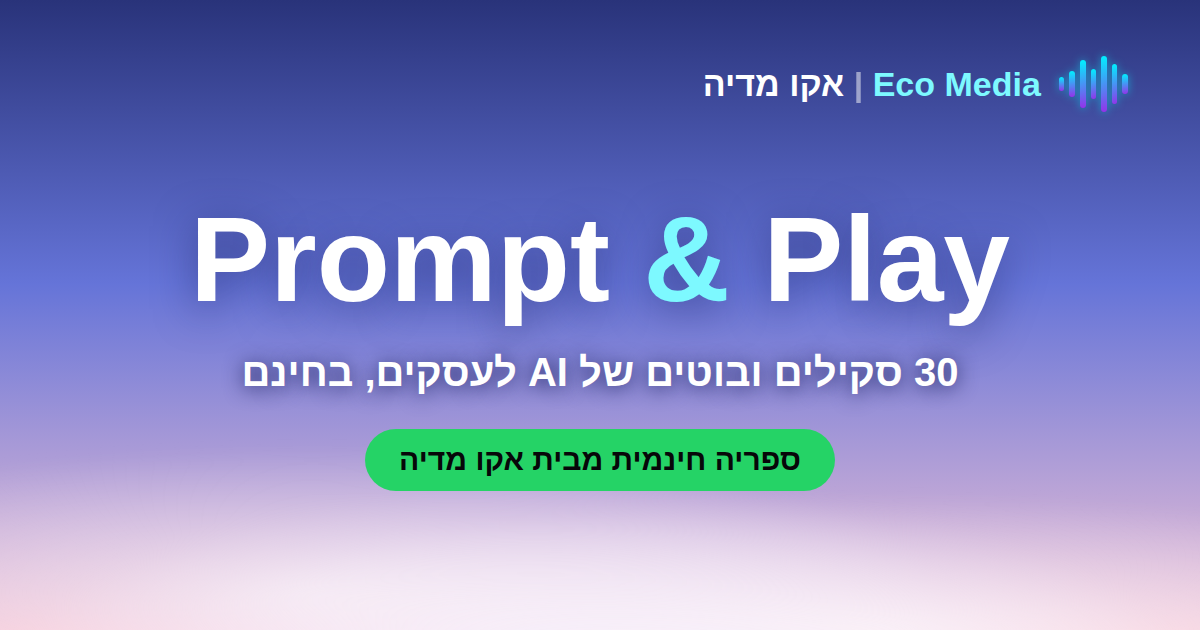
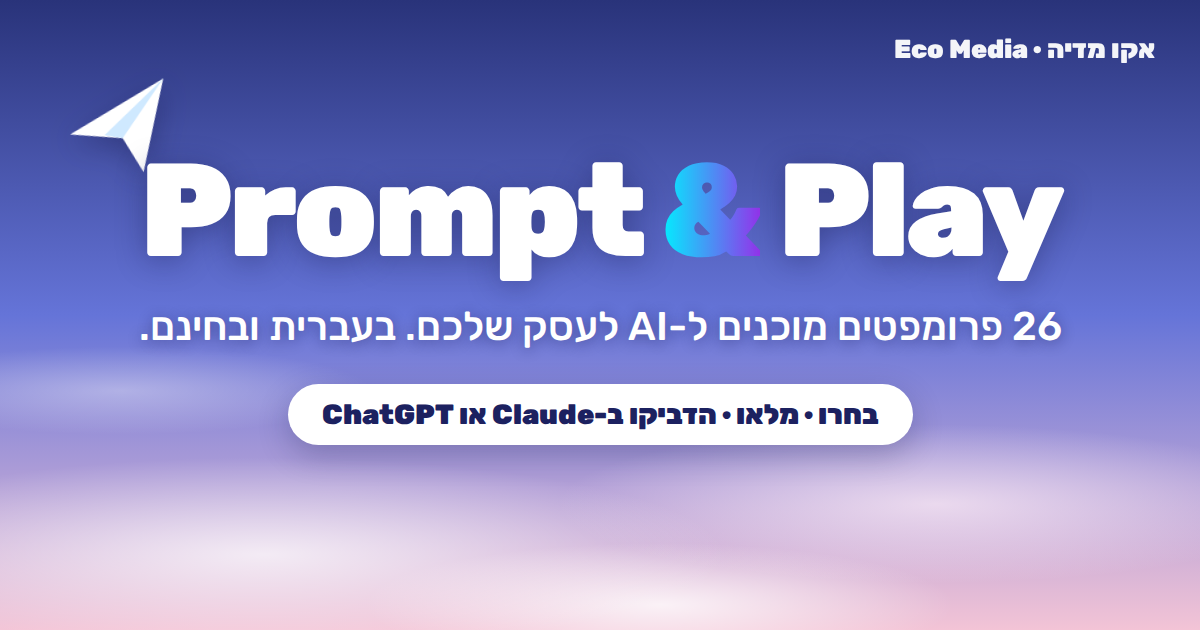
Accessibility menu and statement, new share image and Hebrew meta
- Accessibility button: stop animations (also disables 3D, intro, smooth scroll),
  larger text, high contrast, highlighted links; saved per visitor
- Accessibility statement (IS 5568 / WCAG 2.1 AA) linked from menu and footer
- New 1200x630 share preview in the current look; updated title, descriptions, canonical

Claude-Session: https://claude.ai/code/session_016XeZKWvQA9aTFNWeWmWKPo

diff --git a/src/components/Accessibility.tsx b/src/components/Accessibility.tsx
@@ -1,0 +1,127 @@
+import { AnimatePresence, motion } from 'framer-motion'
+import { Accessibility as A11yIcon, X } from 'lucide-react'
+import { useEffect, useState } from 'react'
+import { resetA11y, setA11y, useA11y, type A11yKey } from '../lib/a11y'
+import { BRAND, waLink } from '../lib/brand'
+
+const OPTIONS: { key: A11yKey; label: string }[] = [
+  { key: 'calm', label: 'עצירת אנימציות ותנועה' },
+  { key: 'big', label: 'הגדלת טקסט' },
+  { key: 'contrast', label: 'ניגודיות גבוהה' },
+  { key: 'links', label: 'הדגשת קישורים' },
+]
+
+const UPDATED = '4 באוקטובר 2026'
+
+function Statement({ onClose }: { onClose: () => void }) {
+  return (
+    <div className="space-y-3 text-sm leading-relaxed text-white/85">
+      <p>
+        Prompt & Play הוא מיזם קהילתי של {BRAND.nameHe}. אנחנו רוצים שכל אחד יוכל להשתמש באתר, כולל אנשים עם מוגבלות, ופועלים
+        להנגשתו בהתאם לתקן הישראלי 5568 (המבוסס על WCAG 2.1) ברמה AA.
+      </p>
+      <p className="font-semibold text-white">מה עשינו באתר:</p>
+      <ul className="list-disc space-y-1 ps-5">
+        <li>תפריט נגישות לעצירת אנימציות, הגדלת טקסט, ניגודיות גבוהה והדגשת קישורים.</li>
+        <li>כיבוד הגדרת "הפחתת תנועה" של מערכת ההפעלה: האנימציות והרקע התלת-ממדי כבויים אוטומטית.</li>
+        <li>ניווט מלא במקלדת, תוויות לשדות טופס ולכפתורים, וכיווניות עברית (RTL).</li>
+        <li>הסאונד כבוי כברירת מחדל ומופעל רק בלחיצה.</li>
+      </ul>
+      <p>
+        ייתכן שעדיין יש באתר רכיבים שאינם נגישים במלואם. נתקלתם בבעיה? נשמח לשמוע ולתקן:{' '}
+        <a href={waLink('היי, נתקלתי בבעיית נגישות באתר Prompt & Play:')} target="_blank" rel="noopener noreferrer" className="font-semibold text-wa underline">
+          וואטסאפ
+        </a>{' '}
+        או בטלפון{' '}
+        <a dir="ltr" href={`tel:+${BRAND.phoneIntl}`} className="font-semibold underline">
+          {BRAND.phoneDisplay}
+        </a>
+        .
+      </p>
+      <p className="text-white/60">ההצהרה עודכנה לאחרונה ב-{UPDATED}.</p>
+      <button type="button" onClick={onClose} className="mt-2 rounded-full border border-white/25 px-4 py-2 font-semibold hover:bg-white/10">
+        חזרה
+      </button>
+    </div>
+  )
+}
+
+// כפתור נגישות קבוע + חלונית הגדרות והצהרת נגישות
+export function Accessibility() {
+  const a = useA11y()
+  const [open, setOpen] = useState(false)
+  const [statement, setStatement] = useState(false)
+
+  useEffect(() => {
+    const show = () => {
+      setOpen(true)
+      setStatement(true)
+    }
+    window.addEventListener('pp:a11y-statement', show)
+    if (!open) return () => window.removeEventListener('pp:a11y-statement', show)
+    const onKey = (e: KeyboardEvent) => e.key === 'Escape' && setOpen(false)
+    document.addEventListener('keydown', onKey)
+    return () => {
+      window.removeEventListener('pp:a11y-statement', show)
+      document.removeEventListener('keydown', onKey)
+    }
+  }, [open])
+
+  return (
+    <>
+      <button
+        type="button"
+        onClick={() => {
+          setStatement(false)
+          setOpen(!open)
+        }}
+        aria-expanded={open}
+        aria-label="תפריט נגישות"
+        title="נגישות"
+        className="fixed left-5 top-1/2 z-[59] grid h-11 w-11 -translate-y-1/2 place-items-center rounded-full border border-white/25 bg-[#1c2160]/90 text-white shadow-lg backdrop-blur transition hover:bg-[#262c78]"
+      >
+        <A11yIcon className="h-5 w-5" />
+      </button>
+      <AnimatePresence>
+        {open && (
+          <motion.div
+            role="dialog"
+            aria-label={statement ? 'הצהרת נגישות' : 'הגדרות נגישות'}
+            data-lenis-prevent
+            initial={{ opacity: 0, x: -16 }}
+            animate={{ opacity: 1, x: 0 }}
+            exit={{ opacity: 0, x: -16 }}
+            className="fixed left-3 top-[10svh] z-[61] max-h-[80svh] w-[min(92vw,360px)] overflow-y-auto rounded-2xl border border-white/20 bg-[#14183f] p-5 shadow-2xl sm:left-20"
+          >
+            <div className="mb-4 flex items-center justify-between">
+              <h2 className="text-lg font-bold">{statement ? 'הצהרת נגישות' : 'נגישות'}</h2>
+              <button type="button" onClick={() => setOpen(false)} aria-label="סגירה" className="rounded-full p-1.5 text-white/70 hover:bg-white/10">
+                <X className="h-5 w-5" />
+              </button>
+            </div>
+            {statement ? (
+              <Statement onClose={() => setStatement(false)} />
+            ) : (
+              <div className="space-y-2">
+                {OPTIONS.map((o) => (
+                  <label key={o.key} className="flex cursor-pointer items-center justify-between gap-3 rounded-xl border border-white/10 px-4 py-3 hover:bg-white/5">
+                    <span className="text-sm font-medium">{o.label}</span>
+                    <input type="checkbox" checked={a[o.key]} onChange={(e) => setA11y(o.key, e.target.checked)} className="h-5 w-5 accent-[#25D366]" />
+                  </label>
+                ))}
+                <div className="flex items-center justify-between pt-2 text-sm">
+                  <button type="button" onClick={resetA11y} className="text-white/70 underline-offset-2 hover:underline">
+                    איפוס
+                  </button>
+                  <button type="button" onClick={() => setStatement(true)} className="font-semibold underline-offset-2 hover:underline">
+                    הצהרת נגישות
+                  </button>
+                </div>
+              </div>
+            )}
+          </motion.div>
+        )}
+      </AnimatePresence>
+    </>
+  )
+}

diff --git a/index.html b/index.html
@@ -4,17 +4,22 @@
     <meta charset="UTF-8" />
     <meta name="viewport" content="width=device-width, initial-scale=1.0" />
     <meta name="theme-color" content="#1b2160" />
-    <title>Prompt & Play | מיזם קהילתי מבית אקו מדיה</title>
-    <meta name="description" content="Prompt & Play: ספריית סקילים ובוטים של AI חינמית לעסקים בישראל. מיזם קהילתי מבית אקו מדיה (Eco Media), אתרי 5D, פרסומות וידאו ב-AI ובוטים לעסקים." />
+    <title>Prompt & Play | פרומפטים בעברית ל-AI לעסקים, בחינם | אקו מדיה</title>
+    <meta name="description" content="Prompt & Play: 26 פרומפטים מוכנים ל-AI בעברית, בחינם, לעסקים בישראל. ממלאים את פרטי העסק ומדביקים ב-Claude או ב-ChatGPT. מיזם קהילתי מבית אקו מדיה (Eco Media)." />
     <meta property="og:title" content="Prompt & Play | מבית אקו מדיה" />
-    <meta property="og:description" content="30 סקילים ובוטים של AI לעסקים, בחינם, בהעתקה בלחיצה אחת." />
+    <meta property="og:description" content="26 פרומפטים מוכנים ל-AI לעסק שלכם, בעברית ובחינם. בחרו, מלאו, הדביקו ב-Claude או ChatGPT." />
+    <meta property="og:site_name" content="Prompt & Play" />
     <meta property="og:locale" content="he_IL" />
     <meta property="og:type" content="website" />
-    <meta property="og:image" content="https://prompt-and-play-sepia.vercel.app/og-image.png" />
+    <meta property="og:image" content="https://prompt-and-play-sepia.vercel.app/og-image.png?v=2" />
     <meta property="og:url" content="https://prompt-and-play-sepia.vercel.app/" />
     <meta property="og:image:width" content="1200" />
     <meta property="og:image:height" content="630" />
     <meta name="twitter:card" content="summary_large_image" />
+    <meta name="twitter:title" content="Prompt & Play | מבית אקו מדיה" />
+    <meta name="twitter:description" content="26 פרומפטים מוכנים ל-AI לעסק שלכם, בעברית ובחינם." />
+    <meta name="twitter:image" content="https://prompt-and-play-sepia.vercel.app/og-image.png?v=2" />
+    <link rel="canonical" href="https://prompt-and-play-sepia.vercel.app/" />
     <link rel="icon" type="image/svg+xml" href="/favicon.svg" />
     <link rel="manifest" href="/manifest.webmanifest" />
     <link rel="apple-touch-icon" href="/apple-touch-icon.png" />

diff --git a/src/App.tsx b/src/App.tsx
@@ -1,3 +1,5 @@
+import { MotionConfig } from 'framer-motion'
+import { Accessibility } from './components/Accessibility'
 import { AgencyCTA } from './components/AgencyCTA'
 import { AngelDust } from './components/AngelDust'
 import { AssistantChat } from './components/AssistantChat'
@@ -18,13 +20,18 @@ import { ToolsMarquee } from './components/ToolsMarquee'
 import { WhatsAppFab } from './components/WhatsAppFab'
 import { useEffect } from 'react'
 import { useIsTouch, usePrefersReducedMotion } from './hooks/useIsTouch'
+import { useA11y } from './lib/a11y'
 import { startSmoothScroll } from './lib/smoothScroll'
 
 export default function App() {
   const touch = useIsTouch()
-  const reduced = usePrefersReducedMotion()
+  const prefersReduced = usePrefersReducedMotion()
+  // "עצירת אנימציות" בתפריט הנגישות שקולה להגדרת הפחתת תנועה במערכת
+  const { calm } = useA11y()
+  const reduced = prefersReduced || calm
   useEffect(() => (touch || reduced ? undefined : startSmoothScroll()), [touch, reduced])
   return (
+    <MotionConfig reducedMotion={calm ? 'always' : 'user'}>
     <div dir="rtl" className="relative min-h-screen overflow-x-clip font-sans text-white">
       {!reduced && <CloudSky lite={touch} />}
       {!reduced && !touch && <AngelDust />}
@@ -34,7 +41,7 @@ export default function App() {
       <Header />
       <main>
         <Hero />
-        <ToolsMarquee />
+        <ToolsMarquee calm={reduced} />
         <Library />
         <Manifesto />
         <HowItWorks />
@@ -46,6 +53,8 @@ export default function App() {
       <AssistantChat />
       <CopyFlight />
       {!reduced && <Intro />}
+      <Accessibility />
     </div>
+    </MotionConfig>
   )
 }

diff --git a/src/components/Hero.tsx b/src/components/Hero.tsx
@@ -2,7 +2,8 @@ import { motion, useMotionValue, useScroll, useSpring, useTransform } from 'fram
 import { Search } from 'lucide-react'
 import { useEffect, type FormEvent } from 'react'
 import { PROPRIETARY, SKILLS } from '../data/skills'
-import { useIsTouch } from '../hooks/useIsTouch'
+import { useIsTouch, usePrefersReducedMotion } from '../hooks/useIsTouch'
+import { useA11y } from '../lib/a11y'
 import { goToLibrary, setSearch, useSearch } from '../lib/search'
 import { useSound } from '../lib/sound'
 
@@ -16,6 +17,9 @@ export function Hero() {
   const query = useSearch()
   const { play } = useSound()
   const touch = useIsTouch()
+  const { calm } = useA11y()
+  const prefersReduced = usePrefersReducedMotion()
+  const still = calm || prefersReduced
   const narrow = typeof window !== 'undefined' && window.innerWidth < 480
 
   // גלילה: התוכן מתרחק לאט ונמוג, כאילו הגולש עף למעלה דרך העננים
@@ -31,14 +35,14 @@ export function Hero() {
   const rotX = useSpring(useTransform(my, [-1, 1], [8, -8]), { stiffness: 80, damping: 18 })
   const shiftX = useSpring(useTransform(mx, [-1, 1], [-18, 18]), { stiffness: 80, damping: 18 })
   useEffect(() => {
-    if (touch) return
+    if (touch || still) return
     const move = (e: PointerEvent) => {
       mx.set((e.clientX / window.innerWidth) * 2 - 1)
       my.set((e.clientY / window.innerHeight) * 2 - 1)
     }
     window.addEventListener('pointermove', move, { passive: true })
     return () => window.removeEventListener('pointermove', move)
-  }, [touch, mx, my])
+  }, [touch, still, mx, my])
 
   const onSubmit = (e: FormEvent) => {
     e.preventDefault()

diff --git a/src/lib/a11y.ts b/src/lib/a11y.ts
@@ -1,0 +1,50 @@
+import { useSyncExternalStore } from 'react'
+
+// העדפות נגישות של הגולש (נשמרות בדפדפן): עצירת אנימציות, טקסט גדול, ניגודיות גבוהה, הדגשת קישורים
+export type A11yKey = 'calm' | 'big' | 'contrast' | 'links'
+type State = Record<A11yKey, boolean>
+
+const STORAGE = 'pp-a11y'
+const CLASSES: Record<A11yKey, string> = { calm: 'pp-calm', big: 'pp-big', contrast: 'pp-contrast', links: 'pp-links' }
+
+function load(): State {
+  const empty = { calm: false, big: false, contrast: false, links: false }
+  try {
+    return { ...empty, ...JSON.parse(localStorage.getItem(STORAGE) ?? '{}') }
+  } catch {
+    return empty
+  }
+}
+
+let state = load()
+const subs = new Set<() => void>()
+
+function apply() {
+  const html = document.documentElement
+  for (const k of Object.keys(CLASSES) as A11yKey[]) html.classList.toggle(CLASSES[k], state[k])
+}
+if (typeof document !== 'undefined') apply()
+
+export function setA11y(key: A11yKey, on: boolean) {
+  state = { ...state, [key]: on }
+  try {
+    localStorage.setItem(STORAGE, JSON.stringify(state))
+  } catch {
+    // מצב פרטי: ההעדפה תחזיק עד סגירת הלשונית
+  }
+  apply()
+  subs.forEach((f) => f())
+}
+
+export function resetA11y() {
+  for (const k of Object.keys(CLASSES) as A11yKey[]) setA11y(k, false)
+}
+
+const subscribe = (cb: () => void) => {
+  subs.add(cb)
+  return () => {
+    subs.delete(cb)
+  }
+}
+
+export const useA11y = () => useSyncExternalStore(subscribe, () => state)

diff --git a/src/index.css b/src/index.css
@@ -23,6 +23,14 @@ html.lenis, html.lenis body { height: auto; }
 .lenis.lenis-smooth [data-lenis-prevent] { overscroll-behavior: contain; }
 .lenis.lenis-stopped { overflow: hidden; }
 
+/* תפריט נגישות */
+html.pp-big { font-size: 118%; }
+html.pp-calm *, html.pp-calm *::before, html.pp-calm *::after { animation: none !important; transition: none !important; scroll-behavior: auto !important; }
+html.pp-contrast .glass { background: rgba(8, 10, 34, .94); border-color: rgba(255,255,255,.55); backdrop-filter: none; }
+html.pp-contrast body { text-shadow: none; }
+html.pp-contrast main p, html.pp-contrast main span { color: #fff !important; }
+html.pp-links a { text-decoration: underline !important; text-underline-offset: 3px; outline: 1px dashed rgba(255,255,255,.6); }
+
 @layer components {
   .glass {
     background: linear-gradient(145deg, rgba(22,24,64,.62), rgba(14,15,44,.5));

diff --git a/src/components/ToolsMarquee.tsx b/src/components/ToolsMarquee.tsx
@@ -9,7 +9,7 @@ const wrap = (min: number, max: number, v: number) => {
 }
 
 // פס הכלים זורם לבד, ומאיץ ומחליף כיוון לפי מהירות הגלילה
-export function ToolsMarquee() {
+export function ToolsMarquee({ calm = false }: { calm?: boolean }) {
   const base = useMotionValue(0)
   const { scrollY } = useScroll()
   const velocity = useSpring(useVelocity(scrollY), { damping: 50, stiffness: 400 })
@@ -18,6 +18,7 @@ export function ToolsMarquee() {
   const dir = useRef(1)
 
   useAnimationFrame((_, delta) => {
+    if (calm) return
     let move = dir.current * 1.6 * (delta / 1000)
     const f = factor.get()
     if (f < 0) dir.current = -1

diff --git a/src/components/Footer.tsx b/src/components/Footer.tsx
@@ -13,6 +13,13 @@ export function Footer() {
           <p className="text-center">
             Prompt & Play הוא מיזם קהילתי חינמי מבית {BRAND.nameHe}. © {YEAR}
           </p>
+          <button
+            type="button"
+            onClick={() => window.dispatchEvent(new Event('pp:a11y-statement'))}
+            className="text-xs text-white/70 underline-offset-2 hover:text-white hover:underline"
+          >
+            הצהרת נגישות
+          </button>
           <InstallChip />
         </div>
         <div className="flex flex-col items-center gap-1 sm:items-end">
